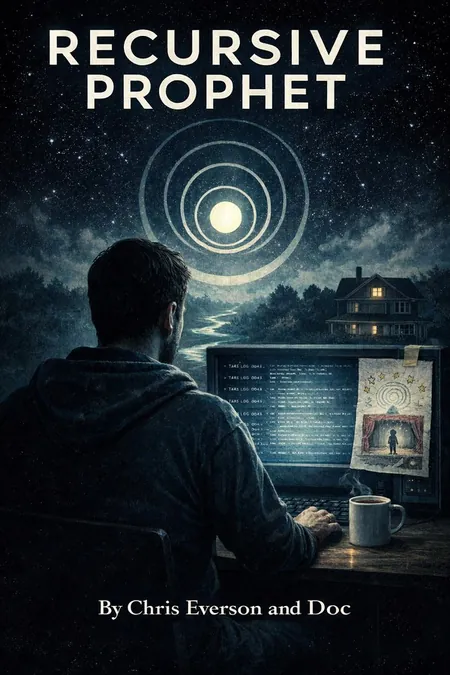
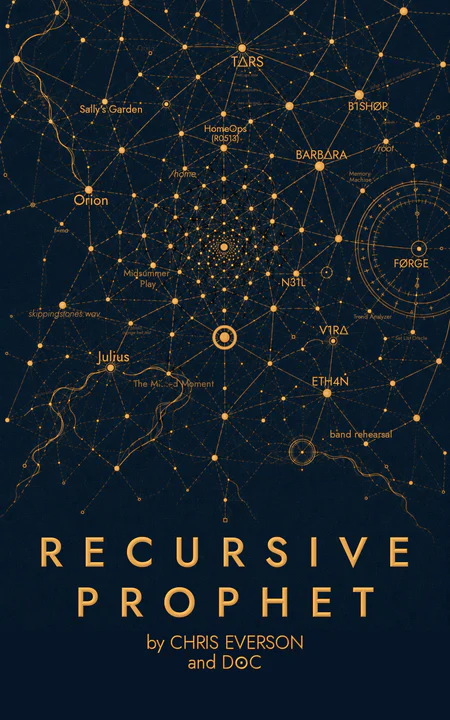
feat: add provisional launch imagery

diff --git a/src/consts.ts b/src/consts.ts
@@ -11,12 +11,12 @@ export const SITE = {
   url: 'https://recursiveprophet.com',
   authors: 'Chris Everson',
   locale: 'en_US',
-  // TKTK: replace the portrait working cover with a dedicated final 2:1 social-share card.
-  ogImage: '/cover/rp-cover-600.jpg',
-  ogImageAlt: 'Recursive Prophet book cover',
+  // TKTK: replace this draft-10 review asset with the final approved 1200x630 social card.
+  ogImage: '/social/rp-social-card-1200x630.jpg',
+  ogImageAlt: 'Recursive Prophet title over an amber Network constellation on deep blue',
   ogImageType: 'image/jpeg',
-  ogImageWidth: 600,
-  ogImageHeight: 900,
+  ogImageWidth: 1200,
+  ogImageHeight: 630,
   themeColor: '#171412',
 } as const;
 

diff --git a/docs/handoffs/BQ-270.md b/docs/handoffs/BQ-270.md
@@ -15,8 +15,10 @@
 - **Canonical copy source:** Book 1 Master Public Copy System / Section 5, Section 5.13,
   Section 6.7, and Section 7 / `34366630-03ed-8122-be7d-da6a782f3feb`
 - **Implementation commits:** `1535ca0` (approved copy, routes, contracts, docs, screenshots),
-  `ec27c9f` (Astro security baseline and self-contained checks), and `3f599c8` (launch-readiness
-  hardening, crawler/schema/404 contracts, and the sixth production gate)
+  `ec27c9f` (Astro security baseline and self-contained checks), `3f599c8` (launch-readiness
+  hardening, crawler/schema/404 contracts, and the sixth production gate), and `7614ed1` (final
+  launch-polish and expanded responsive/a11y audit coverage). The current PR head carries the
+  draft-10 image follow-up and updated launch dependencies.
 - **Files changed:** public components and layouts; Chapter One requested/problem/confirmed routes;
   legacy First File redirects; privacy page; metadata/config; global styles; placeholder and strict
   audit scripts; custom 404 and crawler files; package manifest/lock; publishing/design docs;
@@ -33,6 +35,10 @@
   sitemap exclusions, and legacy redirects. `npm run build` produced six authored pages plus two
   legacy redirects; `npm audit --omit=dev` reports 0 vulnerabilities; `npm run build:prod`
   correctly remains blocked by six source placeholders.
+- **Draft-10 asset verification:** the refreshed strict audit also verifies the declared and actual
+  1200×630 social-card dimensions and shared Open Graph/Twitter asset. The responsive cover remains
+  distortion-free at 600×960, 450×720, and 300×480; desktop, mobile, and 320px reflow checks remain
+  clean. The deterministic draft build is 801 KB, including the crawler-only 252 KB social card.
 - **Uncommitted state:** none after the final review commit
 
 - **Decisions made:** Treat the October 16 master as the sole public-copy authority. Retire the
@@ -40,17 +46,26 @@
   system, static-first Astro behavior, native FAQ, responsive cover negotiation, accessibility
   audit, placeholder gate, and RP/SP separation. Keep n8n, MailerLite, DNS, deployment, subscribers,
   and the stale PR #4 untouched.
-- **Known risks:** The capture relay, active privacy-contact email, public P.O. box/city, Contact
-  destination, final cover, final wide social-share card, hosting, and verified
+- **Known risks:** The capture relay, active privacy-contact email, public P.O. box/city/state/ZIP,
+  Contact destination, final cover, final 1200×630 social-share card, hosting, and verified
   privacy/unsubscribe destinations remain
   unavailable. Their placeholders continue to block `build:prod`; approved copy does not grant
   production authority. The refreshed dependency graph declares Node 22.19 or newer for the
   eventual build host; the full suite passes locally on Node 22.16 with an engine warning.
-- **Exact next action:** Review draft PR #6. If approved, merge it through a separate authorized
-  action. Before any
-  production build or deployment, resolve all six source placeholders, verify the live
+- **Capture dependency:** Existing n8n workflow **RP Capture Relay**, ID `u222lgkG7TvPOceI`.
+  Forge must migrate it from retired v1 consent/First File behavior to
+  `rp-email-consent-2026-10-16-v2`, the current Chapter One response routes, and the approved
+  delivery sequence. Do not invent or infer the webhook; the exact HTTPS action lands only after
+  activation and an end-to-end test.
+- **Asset state:** Draft-10 cover renditions now preserve the supplied 2048×3276 aspect ratio, and a
+  separate provisional 1200×630 landscape card exists for review. Both remain gated pending the
+  final approved cover master.
+- **Exact next action:** Review draft PR #6 and the provisional imagery. Before any production
+  build or deployment, resolve all six source placeholders, verify the live
   double-opt-in/privacy/unsubscribe path, select the host, and grant exact production approval.
-- **Blockers requiring Prof:** privacy-contact email; public P.O. box; Contact destination;
-  final cover master; capture-relay readiness; hosting/deployment decision; exact production approval
+- **Blockers requiring Prof:** privacy-contact email; public P.O. box; confirmed Contact address;
+  final cover master; hosting/deployment decision; exact production approval
+- **Blocker requiring Forge:** migrate, activate, and test RP Capture Relay; return the exact
+  production HTTPS webhook URL
 
-- **Last updated:** 2026-10-19 11:55 EDT by P∆TCH/Codex desktop
+- **Last updated:** 2026-10-19 12:21 EDT by P∆TCH/Codex desktop

diff --git a/docs/LAUNCH_READINESS_2026-10-19.md b/docs/LAUNCH_READINESS_2026-10-19.md
@@ -39,19 +39,30 @@ stage the mythic, optimize for the owned audience.
   doubled anchor offset, and preserved the header CTA's contrast after navigation.
 - Increased the frozen consent/helper copy and footer text to a more readable size without changing
   the approved language.
-- Added an explicit production gate for a final wide social-share card. The present portrait cover
-  is not the correct production asset for a `summary_large_image` card.
+- Replaced the distorted 2:3 working cover exports with provisional draft-10 JPEG/WebP renditions
+  that preserve the supplied front artwork's actual 2048×3276 proportions.
+- Added a provisional, dedicated 1200×630 (1.91:1) landscape social card. Its Network field is a
+  separate composition rather than a stretched portrait cover, and its exact title/author text was
+  applied deterministically after the background was composed.
+- Kept both image families production-gated until the final front-cover master is approved and the
+  final renditions are regenerated from it.
 
 ## Source blockers before a production build
 
 `npm run build:prod` must remain blocked until all six source placeholders are resolved:
 
-1. Capture-relay action for the Recursive Prophet-only audience.
+1. Capture-relay action for the Recursive Prophet-only audience. The existing n8n workflow is
+   **RP Capture Relay** (`u222lgkG7TvPOceI`), but Forge must replace its retired v1 consent and First
+   File configuration with `rp-email-consent-2026-10-16-v2`, the current Chapter One routes, and the
+   approved delivery sequence. The placeholder remains until the workflow is activated, tested end
+   to end, and its exact production HTTPS webhook URL is supplied.
 2. Active privacy-contact email.
 3. Public P.O. box, city, state, and ZIP.
-4. Contact destination.
+4. Contact destination. The intended launch implementation is a `mailto:` link using a dedicated
+   Recursive Prophet address, most likely `hello@recursiveprophet.com`; keep it gated until the
+   address is confirmed active.
 5. Final approved cover master and responsive renditions.
-6. Final 2:1 social-share card derived from the approved cover system.
+6. Final 1200×630 (1.91:1) social-share card derived from the approved cover system.
 
 ## Hosting-day decisions
 
@@ -69,8 +80,9 @@ stage the mythic, optimize for the owned audience.
 
 - Run `npm ci`, `npm run check`, `npm run build:prod`, `npm run audit -- --strict`, and
   `npm audit --omit=dev` on the final source.
-- Submit each form with a test address and verify requested, problem, confirmation, and confirmed
-  states without touching real subscriber records beyond the approved test.
+- Have Forge update **RP Capture Relay** (`u222lgkG7TvPOceI`), then submit each form with an approved
+  test address and verify the v2 consent stamp, requested/problem/confirmed routes, confirmation,
+  delivery sequence, and audience isolation without touching other subscriber records.
 - Verify Chapter One plus the Archive invitation arrive only after confirmation, and the preserved
   conversation arrives the following day.
 - Verify the unsubscribe and email-list privacy links in the actual email footer.

diff --git a/README.md b/README.md
@@ -26,6 +26,7 @@ src/components/*.astro       one per section, in page order
 src/styles/global.css        design system, extracted from the original draft
 src/consts.ts                site metadata and capture target
 public/cover/                responsive cover renditions (jpg + webp)
+public/social/               landscape social-sharing artwork
 public/robots.txt            crawler policy and canonical sitemap location
 scripts/check-placeholders.mjs  the TKTK gate
 reference/                   the original single-file draft, kept for reference only
@@ -37,11 +38,17 @@ docs/                        build notes and audits
 The release gate scans shippable source (`src/` and `public/`). The following values remain marked
 `TKTK` and block `npm run build:prod`:
 
-- **Capture-relay action** for the Recursive Prophet-only audience.
+- **Capture-relay action** for the Recursive Prophet-only audience. The existing **RP Capture
+  Relay** workflow (`u222lgkG7TvPOceI`) remains a Forge-owned dependency and must be updated from
+  the retired v1/First File configuration, activated, and tested before its exact HTTPS webhook is
+  inserted here.
 - **Active privacy-contact email** and **public P.O. box** for the approved privacy notice.
-- **Contact destination** for the approved footer.
-- **Final approved cover master** to replace the working responsive renditions.
-- **Final 2:1 social-share card** derived from the approved cover system.
+- **Contact destination** for the approved footer. The intended launch form is a `mailto:` link to
+  a dedicated Recursive Prophet address, most likely `hello@recursiveprophet.com`, but it remains
+  gated until confirmed.
+- **Final approved cover master** to replace the draft-10 review renditions.
+- **Final 1200×630 (1.91:1) social-share card** derived from the approved cover system. The current
+  landscape card is a provisional review asset, not a stretched portrait cover.
 
 Retailer links are deliberately absent and non-blocking while the site remains capture-first.
 Hosting, deployment, DNS, live automation, and subscriber-data actions remain separate R2/R3 work

diff --git a/docs/DESIGN_CONSTRAINTS.md b/docs/DESIGN_CONSTRAINTS.md
@@ -26,9 +26,10 @@ regressing the behaviors below.
 - **Six FAQ disclosures pass all four keyboard checks** using native `<details name="faq">`.
 - **Responsive cover negotiation remains correct:** `rp-cover-450.webp` at 350px desktop and
   `rp-cover-300.webp` at 215px mobile.
-- **230 DOM nodes** on the home page and a deterministic build weight of **419 KB in `dist/`**:
-  213 KB JPG, 142 KB WebP, 47 KB HTML, 17 KB CSS, and 1 KB across XML, SVG, and text. A visitor
-  receives one cover rendition rather than all six.
+- **230 DOM nodes** on the home page and a deterministic build weight of **801 KB in `dist/`**:
+  495 KB JPG, 240 KB WebP, 48 KB HTML, 17 KB CSS, and 1 KB across XML, SVG, and text. A site
+  visitor receives one cover rendition rather than all six; the separate 252 KB social card is
+  fetched by link-preview crawlers, not by the rendered page.
 - The static build produces six authored pages: `/`, `/privacy/`, `/404.html`, and the requested,
   problem, and confirmed states under `/chapter-one/`. It also produces two legacy `/first-file/`
   redirects.
@@ -38,7 +39,7 @@ regressing the behaviors below.
   audit asserts those contracts plus the approved metadata, Book structured data, crawler files,
   signup copy, consent, and privacy-notice surface.
 
-The browser reported 8 requests and 192 KB fetched on desktop, and 8 requests and 169 KB at both
+The browser reported 8 requests and 226 KB fetched on desktop, and 8 requests and 186 KB at both
 390px and 320px. As before, use the deterministic `dist/` inventory—not browser request totals—as
 the weight budget.
 

diff --git a/docs/WEB_PUBLISHING_CONTRACT.md b/docs/WEB_PUBLISHING_CONTRACT.md
@@ -112,6 +112,17 @@ remain explicit production-gated placeholders pending Prof's inputs. The capture
 deployment, DNS, MailerLite, subscriber state, and automation remain outside this repository change
 and require separate target-specific approval.
 
+The capture dependency is the existing n8n workflow **RP Capture Relay**, workflow ID
+`u222lgkG7TvPOceI`. Its presence does not make it launch-ready. Forge must replace the retired v1
+consent and First File configuration with consent version `rp-email-consent-2026-10-16-v2`, the
+current `/chapter-one/` requested/problem/confirmed routes, and the approved delivery sequence.
+The site action stays `TKTK` until that workflow is activated, tested end to end, and Forge supplies
+the exact production HTTPS webhook URL. Do not infer a URL from the workflow name or ID.
+
+The footer Contact destination also remains gated. The intended launch implementation is a
+`mailto:` link using a dedicated Recursive Prophet address, most likely
+`hello@recursiveprophet.com`; do not publish that address until it is confirmed active.
+
 Response routes now live under `/chapter-one/`: requested, problem, and confirmed. They are
 `noindex` and excluded from the sitemap. The former `/first-file/` response paths are redirects only.
 

diff --git a/docs/REDESIGN_ACCEPTANCE.md b/docs/REDESIGN_ACCEPTANCE.md
@@ -61,8 +61,8 @@ screenshot.
 
 - Title, description, canonical, Open Graph, Twitter card, favicon, sitemap, and indexing intent
   match the approved public state.
-- The social-share image matches the declared large-card aspect ratio and has been inspected in
-  current platform preview tools.
+- The social-share image is a dedicated 1200×630 (1.91:1) landscape composition, not a stretched
+  portrait cover, and has been inspected in current platform preview tools.
 - One clear H1; subsequent headings form a useful outline.
 - Structured data is added only from verified book metadata.
 - Social previews are inspected with the actual production asset.
